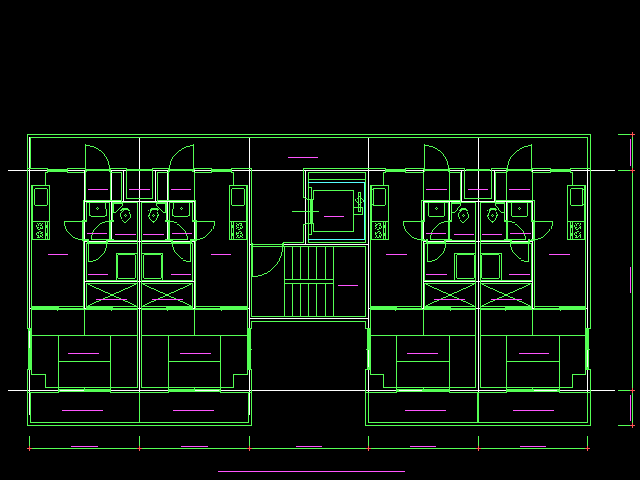
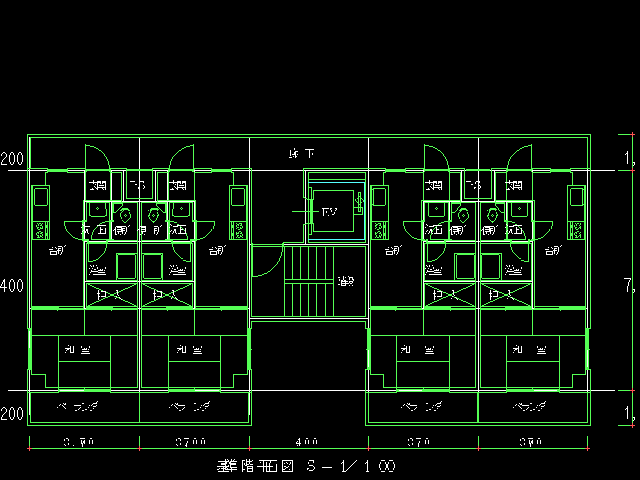
検証の最終形（エミュレータとの画面比較）を README と RESUME に書く

diff --git a/README.md b/README.md
@@ -289,9 +289,9 @@ sh tools/ghidra.sh all       # 全部（長い）
 
 `orig/SAMPLE2.JWC` と `orig/SAMPLE6.JWC` を、移植したコードだけで描いたものです
 （`src/jwc.c` が読み、`src/draw.c` が `src/vga.c` のグラフィックコントローラ越しに描く）。
-円弧はまだ多角形で代用しています（原典の `20a9:0e18` は 1,668 バイト・引数 10 個で、
-度数で最大 5 分割して 8087 で計算するもの。未移植）。ただし**開始角・終了角・扁平率・
-傾きはファイルから正しく読めていて**、扉の開きがちゃんと四分円になります。
+線・円弧・文字まで移植した描画で出しています。漢字は東雲フォント
+（パブリックドメイン）を FONTX2 に変換して同梱したもので、**原典自身は
+フォントを持たず DOS/V から借りています**（`INT 15h AX=5000h`）。
 
 ![SAMPLE2](docs/screen_sample2.png)
 ![SAMPLE6](docs/screen_sample6.png)
@@ -373,13 +373,30 @@ byte  rest[4];            4
 3. ~~オーバーレイ構造の解明~~ 済 — 36 個、`tools/overlays.py`
 4. ~~Ghidra で全体を逆コンパイル~~ 済 — ルート 618 関数、オーバーレイ 89.6%
 5. ~~36 本それぞれの担当~~ 済 — `tools/ovlmap.py`、上の表
-6. ~~画面の下半分~~ 済 — `src/vga.c`（グラフィックコントローラ）、`src/draw.c`（線）
-7. 円・弧（`20a9:0e18`）と、文字・塗り
-8. 図面ファイル `.JWC` の読み込み —— オーバーレイ 36。`SAMPLE*.JWC` が 13 枚ある
-9. 入力 —— マウス（`INT 33h`）とキーボード、FEP
-10. 起動から画面が出るまでを C で
-11. 作図コマンドを 1 つずつ
-12. ネイティブ（Win32 DIB）と WASM（`putImageData`）
+6. ~~画面~~ 済 — `src/vga.c`（グラフィックコントローラ）、`src/draw.c`（線・円弧・文字）
+7. ~~図面ファイル `.JWC`~~ 済 — 同梱の 14 枚すべて読める
+8. ~~文字~~ 済 — DOS/V のフォント API を特定し、東雲フォントを同梱
+9. ~~ブラウザで動かす~~ 済 — ネイティブと 1 画素まで一致
+10. **DOS/V エミュレータを正解にした画面比較**（下記）
+11. 入力 —— マウス（`INT 33h`）とキーボード、FEP
+12. 作図コマンドを 1 つずつ
+
+## 検証の最終形 —— エミュレータと突き合わせる
+
+移植が正しいかは、最終的には**本物と同じ絵が出るか**でしか決まりません。
+そこで、DOS/V エミュレータの WASM 版で本物の `JW_CADV.EXE` を動かし、
+同じ操作をしたときの画面をこの移植と突き合わせる、という形を目指しています。
+
+そのための布石はもう打ってあります。
+
+* **同じフォントを両方に持たせられる形にした。** 原典は
+  `INT 15h AX=5000h` で DOS/V に字形を尋ねるので、エミュレータ側が
+  `font/*.FNT` を同じ API で返せば、両者は同じ字形を描きます。
+  FONTX2 を選んだのはこのためです
+* **画面はプレーンのまま持っている。** `src/vga.c` は 640×480 の 4 プレーンを
+  そのまま保持するので、エミュレータ側の VRAM とバイト単位で比べられます
+* **比較の型はもうある。** `tools/check.sh` がネイティブと WASM を
+  1 画素ずつ突き合わせています。相手がエミュレータに変わるだけです
 
 ## 権利について
 

diff --git a/RESUME.md b/RESUME.md
@@ -21,11 +21,16 @@ sh tools/check.sh      # ビルド、単体検査、図面 14 枚、ネイティ
 
 ## 次にやること
 
-1. **文字。** いま文字はベースラインの線だけです。原典は DOS/V の
-   システムフォントを使っているはずで、`JW_CADV.EXE` の中にフォントは
-   入っていません（`int86` の一覧に `INT 10h AH=11h` が無いので、
-   BIOS のフォント取得も呼んでいない）。**どこから字形を得ているかが未解明**で、
-   ここを先に押さえること。漢字を出すには移植側でフォントを用意する必要も出ます。
+1. **DOS/V エミュレータを正解にした画面比較。** これが検証の最終形です。
+   エミュレータ側に要るのは、VGA モード 12h、`INT 33h` のマウス、そして
+   **`INT 15h AX=5000h`（フォント API）** です。最後のものは
+   `font/*.FNT` をそのまま返せば済むようにしてあるので、
+   **両者が同じ字形を描きます**。比較の型は `tools/check.sh` の
+   「ネイティブ対 WASM」がそのまま使えます（相手が変わるだけ）。
+   未確定なのは**原典が画面上で文字をどの大きさで置くか**で、
+   `src/view.c` はいま文字枠に合わせて拡縮していますが、
+   原典の `20a9:014e` は字形をそのまま（16 ドット）置きます。
+   ここは突き合わせて決めること。
 2. **マウス。** `INT 33h` が root に 7、ovl08 に 7。カーソルをソフトで
    描いているかドライバに任せているかを確認。
 3. **属性バイトの意味。** 線レコードの `pen`/`type` の後ろ 4 バイトと、
